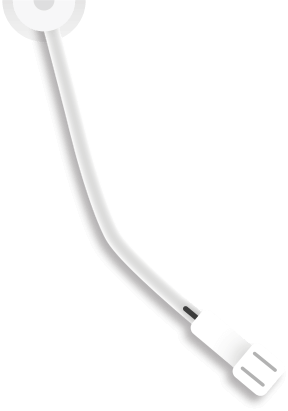
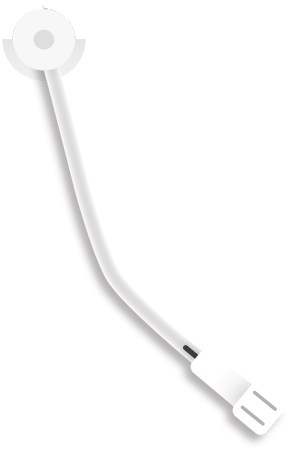
优化了歌单模型与播放器唱臂动画

diff --git a/src/views/home/SongList.vue b/src/views/home/SongList.vue
@@ -24,7 +24,7 @@
         <van-grid :border="false">
           <van-grid-item icon="chat-o" text="4" />
           <van-grid-item icon="share" text="分享" />
-          <van-grid-item icon="passed" text="多选" @click="$router.push({name: 'dragsort'})"/>
+          <van-grid-item icon="passed" text="多选" @click="$router.push({name: 'dragsort'})" />
           <van-grid-item icon="more-o" text="更多" />
         </van-grid>
 
@@ -58,7 +58,8 @@
 import {
   reqLikeList,
   reqSongInfo,
-  reqUserInfo
+  reqUserInfo,
+  reqPlayListDetail
 } from 'api'
 import {
   mapState,
@@ -69,6 +70,9 @@ import {
 import {
   OK
 } from 'common/constant'
+import {
+  songs_formatter
+} from 'utils'
 import SongListModel from 'components/SongListModel'
 import Scroll from 'components/Scroll'
 export default {
@@ -81,6 +85,14 @@ export default {
       songListPlayCount: '',
       songListCommentsCount: 0,
       songList: [],
+    }
+  },
+  created() {
+    if (this.$router.params.id !== 'like_list') {
+      this.getPlayListDetails(this.$router.params.id)
+    } else {
+      this.getLikeList()
+      this.getCreatorInfo()
     }
   },
   computed: {
@@ -96,10 +108,6 @@ export default {
       return this.$route.params.id === 'like_list' ? '我喜欢的音乐' : this.songListTitle
     }
   },
-  created() {
-    this.getLikeList()
-    this.getCreatorInfo()
-  },
   methods: {
     ...mapMutations([
       'setLikeListIds',
@@ -112,6 +120,30 @@ export default {
     ...mapActions([
       'verifySong'
     ]),
+    async getPlayListDetails(id) {
+      const loading = this.$toast.loading({
+        message: '正在努力加载...',
+        forbidClick: true
+      })
+      const result = await reqPlayListDetail(id)
+      if (result.status === OK) {
+        this.creatorName = result.data.playlist.creator.nickname
+        this.creatorAvatarUrl = result.data.playlist.creator.avatarUrl
+        let trackIds = result.data.playlist.trackIds.map(item => {
+          return item = item.id
+        })
+        const songInfo = await reqSongInfo(trackIds.toString())
+        loading.clear()
+        if (songInfo.status === OK) {
+          this.songList = songs_formatter(songInfo.data.songs)
+        } else {
+          this.$toast(songInfo.statusText)
+        }
+      } else {
+        this.$toast(result.statusText)
+      }
+
+    },
     async getLikeList() {
       const loading = this.$toast.loading({
         message: '正在努力加载...',
@@ -153,13 +185,12 @@ export default {
   watch: {
     $route(newVal, oldVal) {
       if (newVal.params.id) this.toggleTabBar(false)
-      if (newVal.params.id !== 'like_list') {
-        console.log('其他歌单')
-      } else {
-        if (oldVal !== 'like_list') {
-          this.getLikeList()
-          this.getCreatorInfo()
-        } 
+      if (newVal.params.id && newVal.params.id !== 'like_list') {
+        this.getPlayListDetails(newVal.params.id)
+      }
+      if (newVal.params.id === 'like_list') {
+        this.getLikeList()
+        this.getCreatorInfo()
       }
     }
   },

diff --git a/src/components/Player.vue b/src/components/Player.vue
@@ -24,6 +24,12 @@
     <!-- 专辑封面 -->
 
     <div class="album-lyric-wrapper" @click="toggleAlbumLyric">
+      <img 
+      src="../assets/arm.png" 
+      alt="唱臂" 
+      class="play-arm"
+      :style="armStyle" 
+      v-show="showAlbum" />
       <div
         class="rotateAlbumWrapper"
         :style="{animationPlayState: albumAnimation}"
@@ -304,7 +310,20 @@ export default {
       } else {
         return true
       }
-        
+    },
+    armStyle() {
+      let rotateDeg = ''
+      if (this.albumAnimation === 'running') {
+        rotateDeg = '-5deg'
+      } else {
+        rotateDeg = '-30deg'
+      }
+      return {
+        transition: 'all 1s',
+        transformOrigin: '12% 10%',
+        transform: `rotate(${rotateDeg})`
+      
+      }
     }
   },
   methods: {
@@ -333,12 +352,12 @@ export default {
       }
     },
     async setLikeSong(reqLikeOrDisLike) {
-        const result = await reqIsLikeSong(this.playingSong.id, reqLikeOrDisLike)
-        if (result.status === OK) {
-          this.changeLikeIds(this.playingSong.id)
-        } else {
-          this.$toast(result.statusText)
-        }
+      const result = await reqIsLikeSong(this.playingSong.id, reqLikeOrDisLike)
+      if (result.status === OK) {
+        this.changeLikeIds(this.playingSong.id)
+      } else {
+        this.$toast(result.statusText)
+      }
     },
     goToSongComments() {
       console.log('gotocomments');
@@ -633,6 +652,12 @@ export default {
     color: #fff;
     font-size: 8vw;
   }
+}
+.play-arm {
+  width: 20vw;
+  position: absolute;
+  left: 47vw;
+  z-index: 1000;
 }
 .rotateAlbumWrapper {
   width: 80vw;

diff --git a/src/views/home/My.vue b/src/views/home/My.vue
@@ -19,6 +19,7 @@
                     :img="item.coverImgUrl"
                     :title="item.name"
                     :count="item.trackCount"
+                    @click.native="showPlayListDetails(item.id)"
                   />
                   <song-list-items
                     title="新建歌单"
@@ -35,6 +36,7 @@
                     :img="item.coverImgUrl"
                     :title="item.name"
                     :count="item.trackCount"
+                    @click.native="showPlayListDetails(item.id)"
                   />
                   <stair />
                 </div>
@@ -133,6 +135,9 @@ export default {
     ...mapMutations([
       'setUserInfo'
     ]),
+    showPlayListDetails(pid) {
+      this.$router.push({name: 'songlist', params: { id: pid}})
+    },
     async createNewList() {
       if (this.isOKColor === '#000') {
         const loading = this.$toast.loading({

diff --git a/src/utils/index.js b/src/utils/index.js
@@ -24,11 +24,11 @@ const songs_formatter = (songs) => {
     let tmpAlbum = {}
     let tmpName = ''
     songs.forEach(song => {
-        let { name, id, transName } = song
+        let { name, id, transName, tns } = song
         let artists = song.artists || song.ar
         let album = song.album || song.al
         tmpAlbum = new Album(album.name, album.id, album.blurPicUrl, album.picUrl, album.publishTime)
-        tmpName = `${name}${transName ? `(${transName})` : ''}`
+        tmpName = `${name}${transName ? `(${transName})` : `${tns ? `(${tns.toString()})` : ''}`}`
         artists.forEach(artist => {
             tmpArtists.push(new Artists(artist.name, artist.id))
         })

diff --git a/src/api/index.js b/src/api/index.js
@@ -15,10 +15,10 @@ export const verifyPassword = (phone, password) => request(BASE + '/login/cellph
 // 退出登录
 export const reqLogout = () => request(BASE + '/logout')
 
-// 请求推荐歌单
+// 请求推荐歌单, 防止浏览器从内存中读取数据
 export const reqResource = () => request(BASE + '/recommend/resource', {time: Date.now()})
 
-// 请求最新专辑
+// 请求最新专辑, 防止浏览器从内存中读取数据
 export const reqNewAlbums = () => request(BASE + '/album/newest', {time: Date.now()})
 
 // 请求每日推荐歌曲

diff --git a/src/views/home/Find.vue b/src/views/home/Find.vue
@@ -69,6 +69,7 @@
             :playcount="item.playcount"
             :pic-url="item.picUrl"
             :name="item.name"
+            @click.native="showPlayListDetails(item.id)"
           />
         </div>
 
@@ -135,6 +136,9 @@ export default {
     this.getNewAlbums()
   },
   methods: {
+    showPlayListDetails(pid) {
+      this.$router.push({ name: 'songlist', params: { id: pid } })
+    },
     async getBanner() {
       const result = await reqBanner()
       if (result.status === OK) {

diff --git a/src/common/constant.js b/src/common/constant.js
@@ -1,6 +1,6 @@
 export const OK = 200
-export const BASE = 'http://localhost:3000'
-// export const BASE = 'http://192.168.16.100:3000'
+// export const BASE = 'http://localhost:3000'
+export const BASE = 'http://192.168.16.100:3000'
 
 /*  通过音乐ID获取到的音乐 url 获取到的 .mp3 文件无法播放音频，
     API文档建议只是用 id 拼接的 url 就可以播放

diff --git a/Vue.config.js b/Vue.config.js
@@ -15,6 +15,7 @@ module.exports = {
             .set('components', resolve('/src/components'))
             .set('api', resolve('/src/api'))
             .set('store', resolve('/src/store'))
+            .set('utils', resolve('/src/utils'))
             
     }
 

diff --git a/src/components/SongListItems.vue b/src/components/SongListItems.vue
@@ -53,7 +53,7 @@ export default {
     showOuterActions() {
       this.$emit('show-actions')
     }
-  },
+  }
 }
 </script>
 
